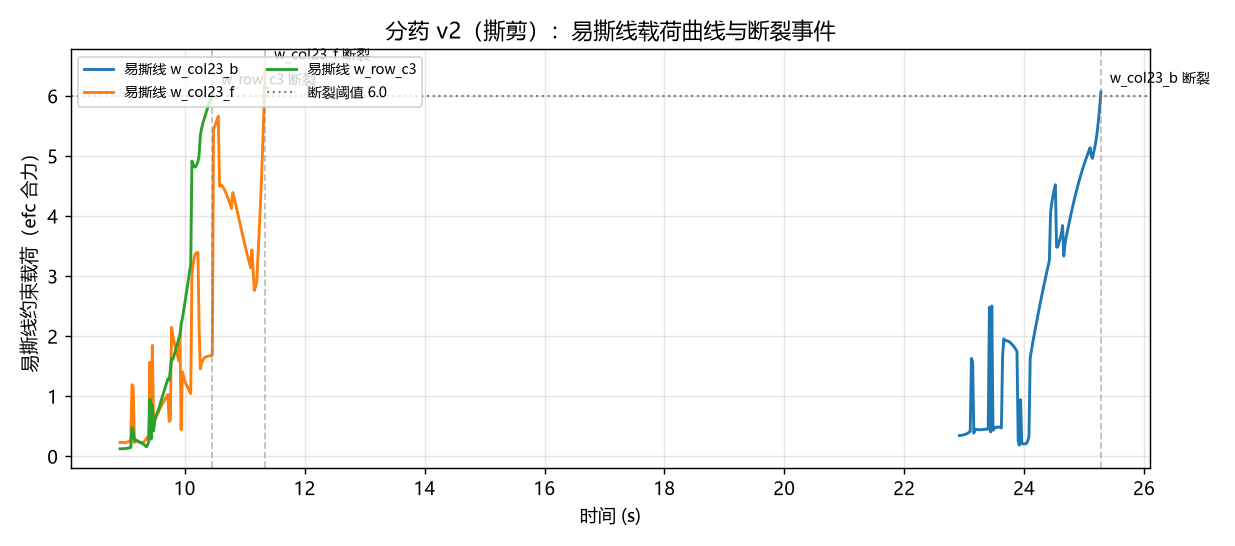
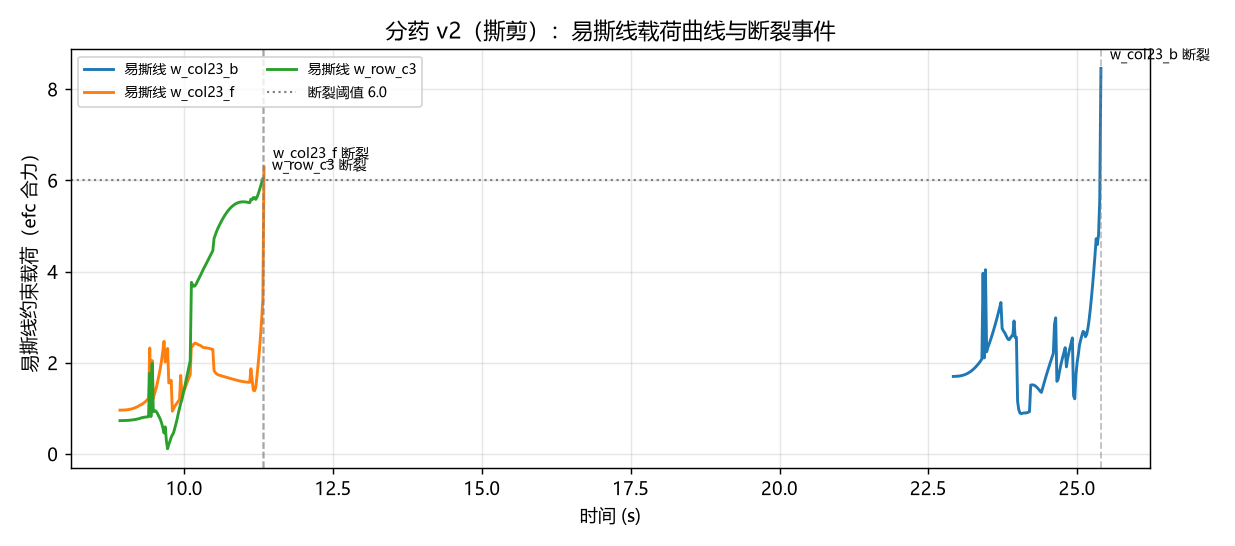
分药 v2：铝塑板减薄至 2.4mm（放开夹爪 ctrlrange 下限 + 指腹垂直偏心补偿），2/2 入托盘

diff --git a/experiments/pill_sorting/run_tear_demo.py b/experiments/pill_sorting/run_tear_demo.py
@@ -28,8 +28,9 @@ UP = np.array([0.0, 0.0, 1.0])
 STRIP_HOLD = np.array([0.00, 0.03, 0.17])   # 左手持板位（strip 中心）
 APPROACH_DIR = np.array([1.0, 0.0, 0.0])    # 右手从 +x 自由端水平接近（指向 -x）
 GRIP_OPEN = 0.025
-GRIP_CLOSE = 0.0018
+GRIP_CLOSE = 0.0006   # 指间隙 1.2mm，对 2.4mm 薄板每侧 0.6mm 过盈
 TIP_BEHIND_SITE = 0.0138  # 指尖在 gripper 站点后方的距离（实测标定）
+TIP_ABOVE_SITE = 0.0022   # 指腹中心在站点上方的距离（实测标定）——薄板必须补偿
 EDGE_OVERLAP = 0.007      # 指尖与板缘的重叠量（穹顶无碰撞，可放心深捏）
 PREGRASP_BACKOFF = 0.05   # 预抓取后撤距离 (m)
 TEAR_LOAD = 6.0           # 易撕线断裂载荷阈值（efc 合力）
@@ -50,6 +51,9 @@ class TearDemo:
         ga = self.model.actuator("right/gripper")
         self.model.actuator_gainprm[ga.id, 0] *= 3.0
         self.model.actuator_biasprm[ga.id, 1] *= 3.0
+        # 放开 ctrlrange 下限（0.002 是真机软件限位；物理关节量程到 0）：
+        # 否则指间隙最小 4mm，捏不住 2.4mm 薄板
+        self.model.actuator_ctrlrange[ga.id, 0] = 0.0
         self.data = mujoco.MjData(self.model)
         self.n_sub = int(1.0 / CTRL_HZ / self.model.opt.timestep)
         self.left = ArmKinematics(self.model, "left", "strip_center")
@@ -173,9 +177,10 @@ class TearDemo:
             def site_target():
                 mujoco.mj_forward(model, data)
                 seg_pos = data.body(seg).xpos.copy()
-                # 指尖落在 板缘 - EDGE_OVERLAP 处；站点在指尖前方 TIP_BEHIND_SITE
+                # 指尖落在 板缘 - EDGE_OVERLAP 处；站点在指尖前方 TIP_BEHIND_SITE、
+                # 下方 TIP_ABOVE_SITE（使指腹中心正对板面中心）
                 return seg_pos + np.array(
-                    [ts.SEG_HX - EDGE_OVERLAP - TIP_BEHIND_SITE, 0, 0])
+                    [ts.SEG_HX - EDGE_OVERLAP - TIP_BEHIND_SITE, 0, -TIP_ABOVE_SITE])
 
             data.ctrl[self.right_grip] = GRIP_OPEN
             pre = site_target() + APPROACH_DIR * PREGRASP_BACKOFF

diff --git a/experiments/pill_sorting/tear_scene.py b/experiments/pill_sorting/tear_scene.py
@@ -13,7 +13,7 @@ HERE = Path(__file__).resolve().parent
 
 # ---------- 板块布局（strip 局部坐标，单位 m） ----------
 N_COLS, N_ROWS = 4, 2
-SEG_HX, SEG_HY, SEG_HZ = 0.0115, 0.0115, 0.003    # 单格半尺寸（厚 6mm 便于夹持）
+SEG_HX, SEG_HY, SEG_HZ = 0.0115, 0.0115, 0.0012   # 单格半尺寸（板厚 2.4mm，贴近真实铝塑板）
 PITCH_X, PITCH_Y = 0.024, 0.025
 COL_X0 = 0.0225            # 第 0 列中心相对 strip 中心的 x 偏移
 ROW_Y = (-0.0125, 0.0125)  # 行中心 y（f=前排 -y，b=后排 +y）
@@ -78,10 +78,10 @@ def build_xml():
       <freejoint name="{seg_name(c, r)}_joint"/>
       <geom name="{seg_name(c, r)}_plate" type="box" size="{SEG_HX} {SEG_HY} {SEG_HZ}"
         friction="2 0.01 0.001" solref="0.004 1" rgba="0.82 0.83 0.87 1" mass="0.002"/>
-      <geom name="{seg_name(c, r)}_dome" type="ellipsoid" size="0.0075 0.0075 0.0042" pos="0 0 0.005"
-        contype="0" conaffinity="0" rgba="0.88 0.92 0.97 0.45" mass="0.0004"/>
-      <geom name="{seg_name(c, r)}_pill" type="cylinder" size="0.005 0.0016" pos="0 0 0.004"
-        contype="0" conaffinity="0" rgba="{color} 1" mass="0.0006"/>
+      <geom name="{seg_name(c, r)}_dome" type="ellipsoid" size="0.0075 0.0075 0.0042"
+        pos="0 0 {SEG_HZ + 0.002}" contype="0" conaffinity="0" rgba="0.88 0.92 0.97 0.45" mass="0.0004"/>
+      <geom name="{seg_name(c, r)}_pill" type="cylinder" size="0.005 0.0016"
+        pos="0 0 {SEG_HZ + 0.001}" contype="0" conaffinity="0" rgba="{color} 1" mass="0.0006"/>
     </body>""")
 
     # solref/solimp 硬化 + torquescale 放大，否则板会绕焊点像铰链一样下垂

diff --git a/experiments/pill_sorting/README.md b/experiments/pill_sorting/README.md
@@ -49,8 +49,9 @@ cd experiments\pill_sorting
 - **易撕线 = weld 等式约束**：列间 6 + 行间 4 + 持板条 2 共 12 条，按真实邻接拓扑连接；
   监控 `efc_force` 中对应行的合力，超过阈值置 `eq_active=0` 即断裂（不可逆）。
 - 焊接需硬化（`solref="0.0015 1" solimp="0.99 0.999 0.0001" torquescale="20"`），否则整板下垂。
-- 夹持是真实摩擦夹持：板厚 6 mm、指尖咬合 7 mm、右夹爪增益 ×3；药泡穹顶与药片为纯视觉
-  几何（无碰撞），可放心深捏。
+- 夹持是真实摩擦夹持：板厚 2.4 mm、指尖咬合 7 mm、右夹爪增益 ×3、`ctrlrange` 下限放开到 0
+  （真机软件限位 0.002 导致指间隙最小 4 mm，捏不住毫米级薄板）；抓取目标需补偿指腹中心比
+  gripper 站点高 2.2 mm 的偏心；药泡穹顶与药片为纯视觉几何（无碰撞），可放心深捏。
 - 投放用"倒手"：IK 转指尖朝下再松爪 + 3 Hz 抖腕。
 
 ## 已知简化（待办）

diff --git a/docs/journal/2026-07-17-tear.md b/docs/journal/2026-07-17-tear.md
@@ -40,7 +40,7 @@ def weld_load(model, data, weld_name):
 
 1. **整板像铰链一样下垂**：默认 `weld` 的软约束参数扛不住悬臂力矩，8 格板从持板条上耷拉成 90°。解法：`solref="0.0015 1" solimp="0.99 0.999 0.0001" torquescale="20"` 硬化焊接，板立刻平整。
 2. **撕断瞬间单格飞脱**：扭转过猛 + 夹持过浅（指尖只咬住 3.5 mm 板缘）。解法：扭转放慢至 2.2 s 且断裂即停，加深咬合到 7 mm（药泡穹顶是纯视觉几何、无碰撞，可放心深捏）。
-3. **握力不足**：ALOHA 夹爪 `ctrlrange` 下限 0.002，对 4.4 mm 薄板的过盈量只有 0.2 mm，摩擦锥根本兜不住撕剪反力。解法：板厚增到 6 mm + 右夹爪执行器增益 ×3，运送全程稳如老狗。
+3. **握力不足（薄板夹持的真正瓶颈）**：ALOHA 夹爪 `ctrlrange` 下限 0.002 m 是真机软件限位——指间隙最小 4 mm，对毫米级薄板根本捏不上力。解法：仿真中放开下限到 0（物理关节量程本就到 0）+ 右夹爪执行器增益 ×3，板厚 **2.4 mm**（贴近真实铝塑板）也能稳稳夹住撕剪运送全程。薄板还暴露了一个标定盲点：指腹中心比 gripper 站点高 2.2 mm，厚板时被过盈量掩盖，薄板必须在抓取目标里显式补偿，否则只有单指蹭到板面。
 4. **松爪不掉**：水平姿态松爪后单格平躺在指面上纹丝不动。解法：投放前先用 IK 把手转成**指尖朝下**再松爪 + 3 Hz 抖腕——模仿人"倒手"扔东西的动作，两次都干脆利落落入托盘。
 5. **夹持位姿需要双轴约束**：既要"指向接近方向"又要"手指开合轴竖直"，单轴 IK 不够。给 `ArmKinematics.solve()` 加了 `axes=[(局部轴, 世界方向), ...]` 多轴对齐接口。
 